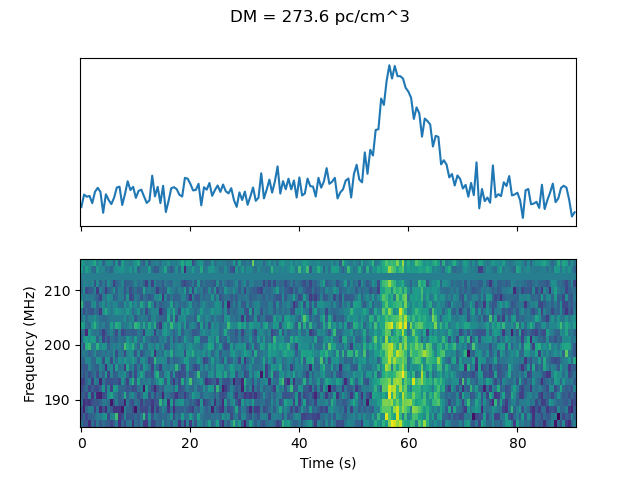
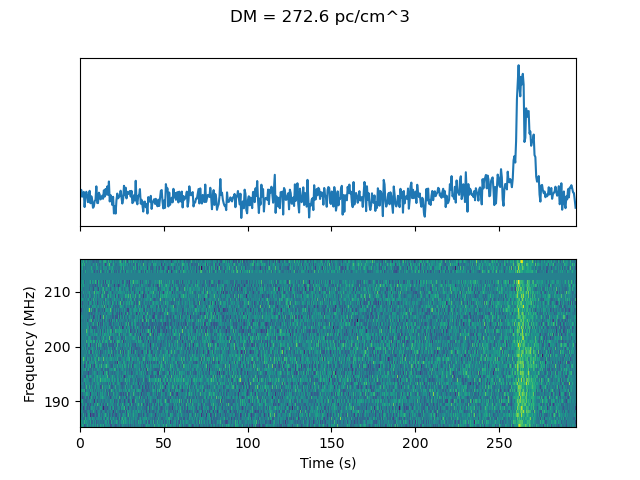
Added updated dynspec for 1340639536

diff --git a/dynspec/README.md b/dynspec/README.md
@@ -4,7 +4,7 @@ The `csv` files in this directory are for the recently discovered 20-minute tran
 
 | GPS time      | Telescope     | Integration time (s) | Channel width (MHz) | Centre of first channel (MHz) |
 | ------------- |:-------------:| :------------------: | :-----------------: | :---------------------------: |
-| [1340639536](#1340639536) | MWA | 0.5 | 1.28 | 185.595 |
+| [1340639536](#1340639536) | MWA | 0.5 | 0.64 | 185.595 |
 | [1340641016](#1340641016) | MWA | 0.5 | 1.28 | 185.595 |
 | [1341930288](#1341930288) | MWA | 0.5 | 1.28 | 139.515 |
 | [1341932656](#1341932656) | MWA | 0.5 | 1.28 | 200.955 |
@@ -40,7 +40,7 @@ We can conclude therefore, that the numbers in the column should be interpreted 
 #### 1340639536
 
 ```
-python dedisperse_dynspec.py --transpose --sample_time 0.5 --freqlo 185.595 --dms 150 401 5 --input 1340639536_dynamic_spectrum_pad.csv
+python dedisperse_dynspec.py --transpose --sample_time 0.5 --freqlo 185.595 --bw 0.64 --dms 250 301 2 --input 1340639536_dynamic_spectrum_pad.csv
 ```
 
 ![1340639536 dedispersed spectrum](images/1340639536_dedispersed.png)
